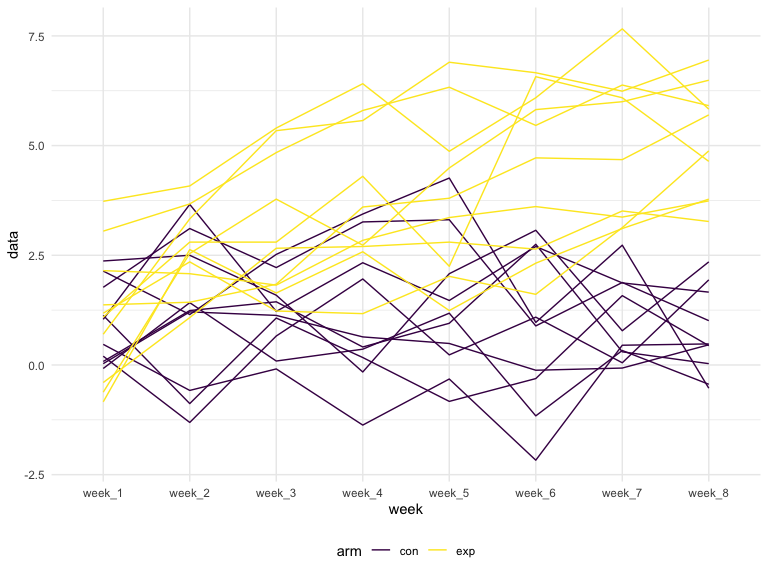
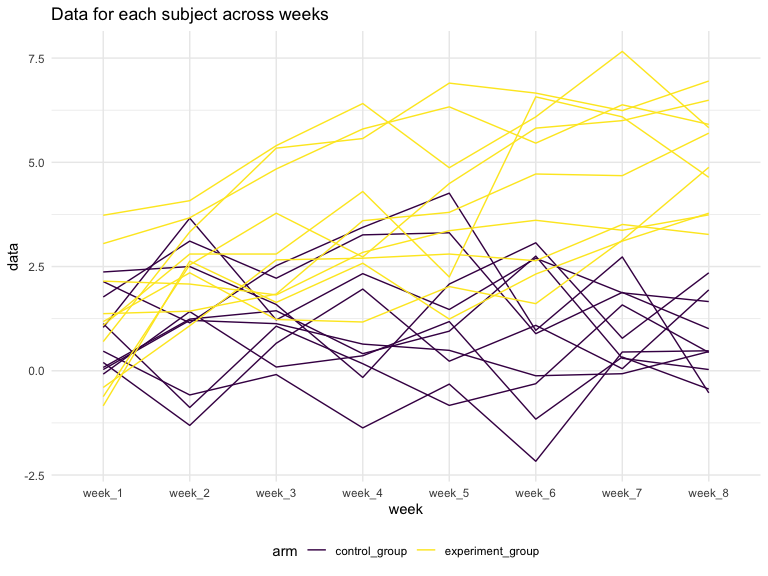
furnishing the plot in p2

diff --git a/p8105_hw5_xc2472.md b/p8105_hw5_xc2472.md
@@ -289,9 +289,15 @@ create a spaghetti plot
 
 ``` r
 study_tidy %>% 
-  separate(arm_id, into = c("arm", "id"), sep = "_", remove = FALSE) %>% 
+  separate(arm_id, into = c("arm", "id"), sep = "_", remove = FALSE) %>%
+  mutate(
+    arm = str_replace(arm, "con", "control_group"),
+    arm = str_replace(arm, "exp", "experiment_group")
+  ) %>% 
   ggplot(aes(x = week, y = data, group = arm_id, color = arm)) +
-  geom_line()
+  geom_line() +
+  labs(
+    title = "Data for each subject across weeks")
 ```
 
 ![](p8105_hw5_xc2472_files/figure-gfm/unnamed-chunk-6-1.png)<!-- -->
